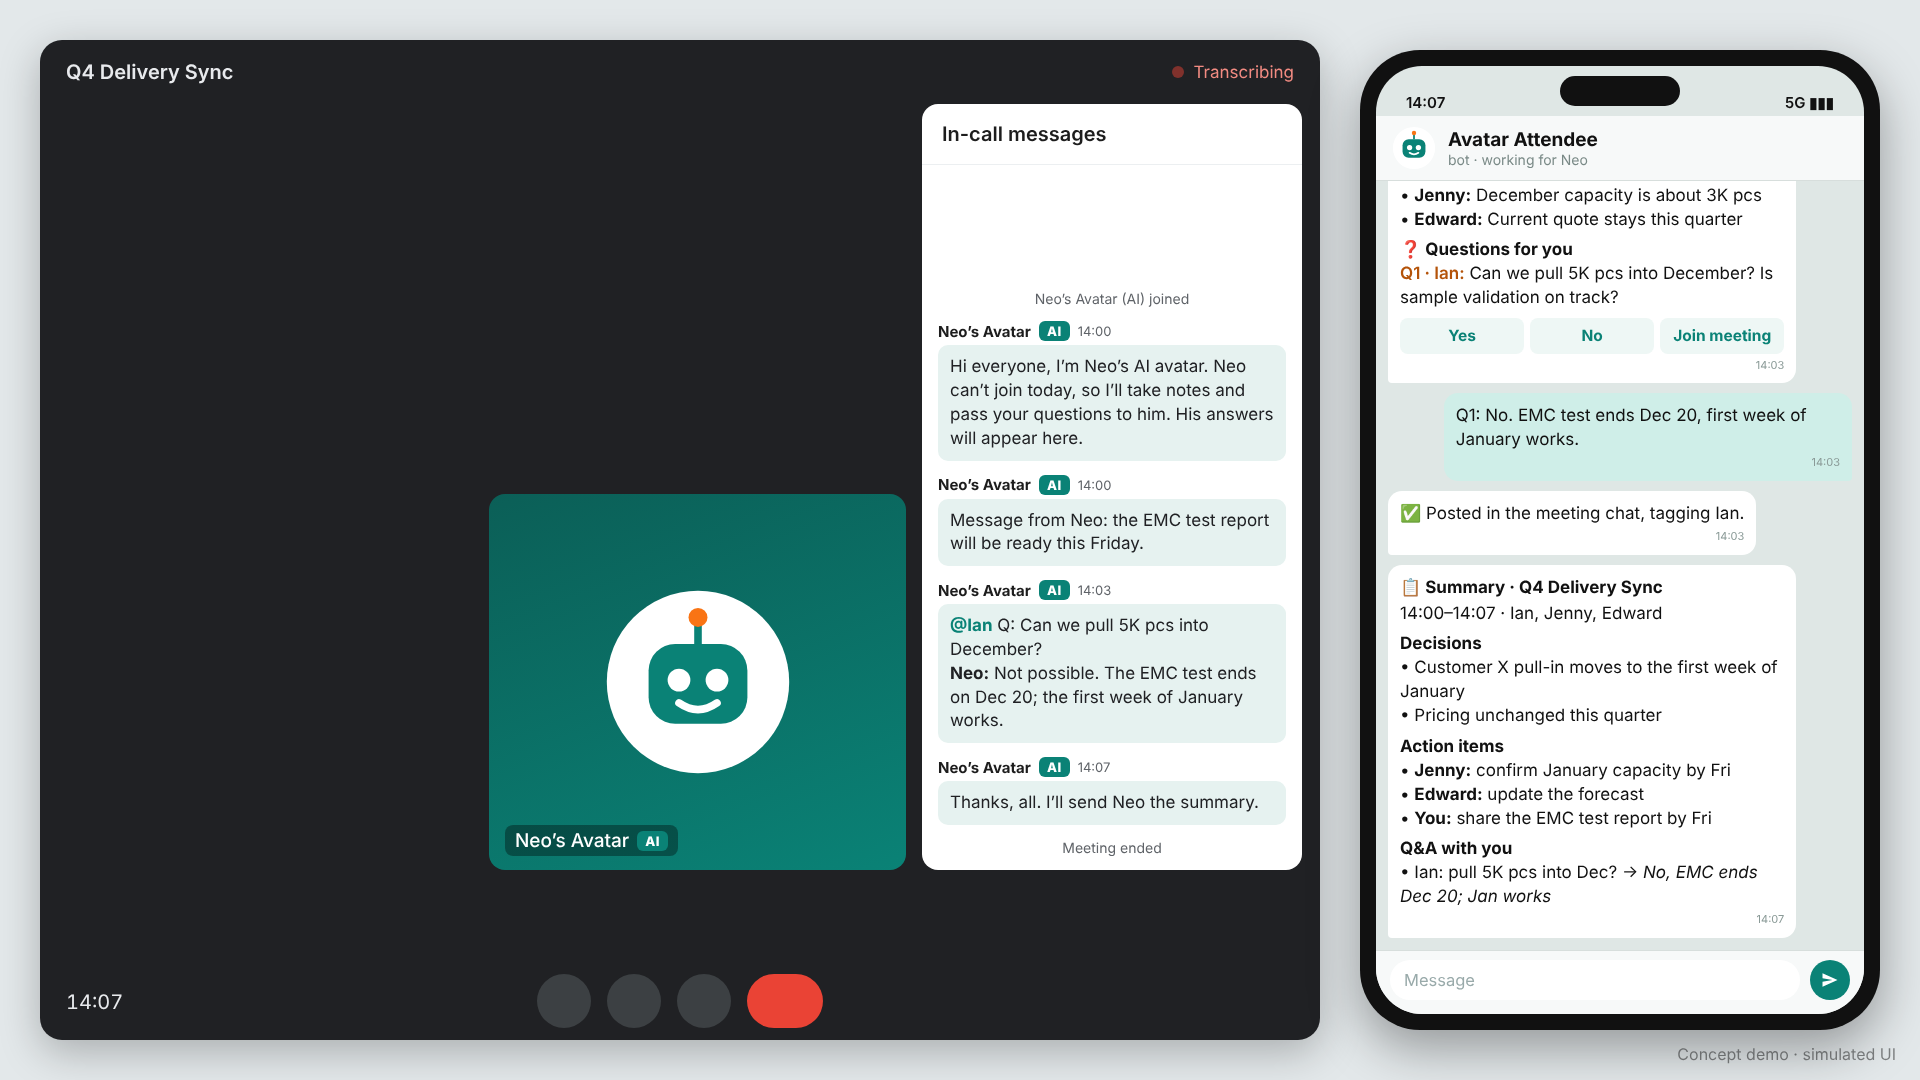
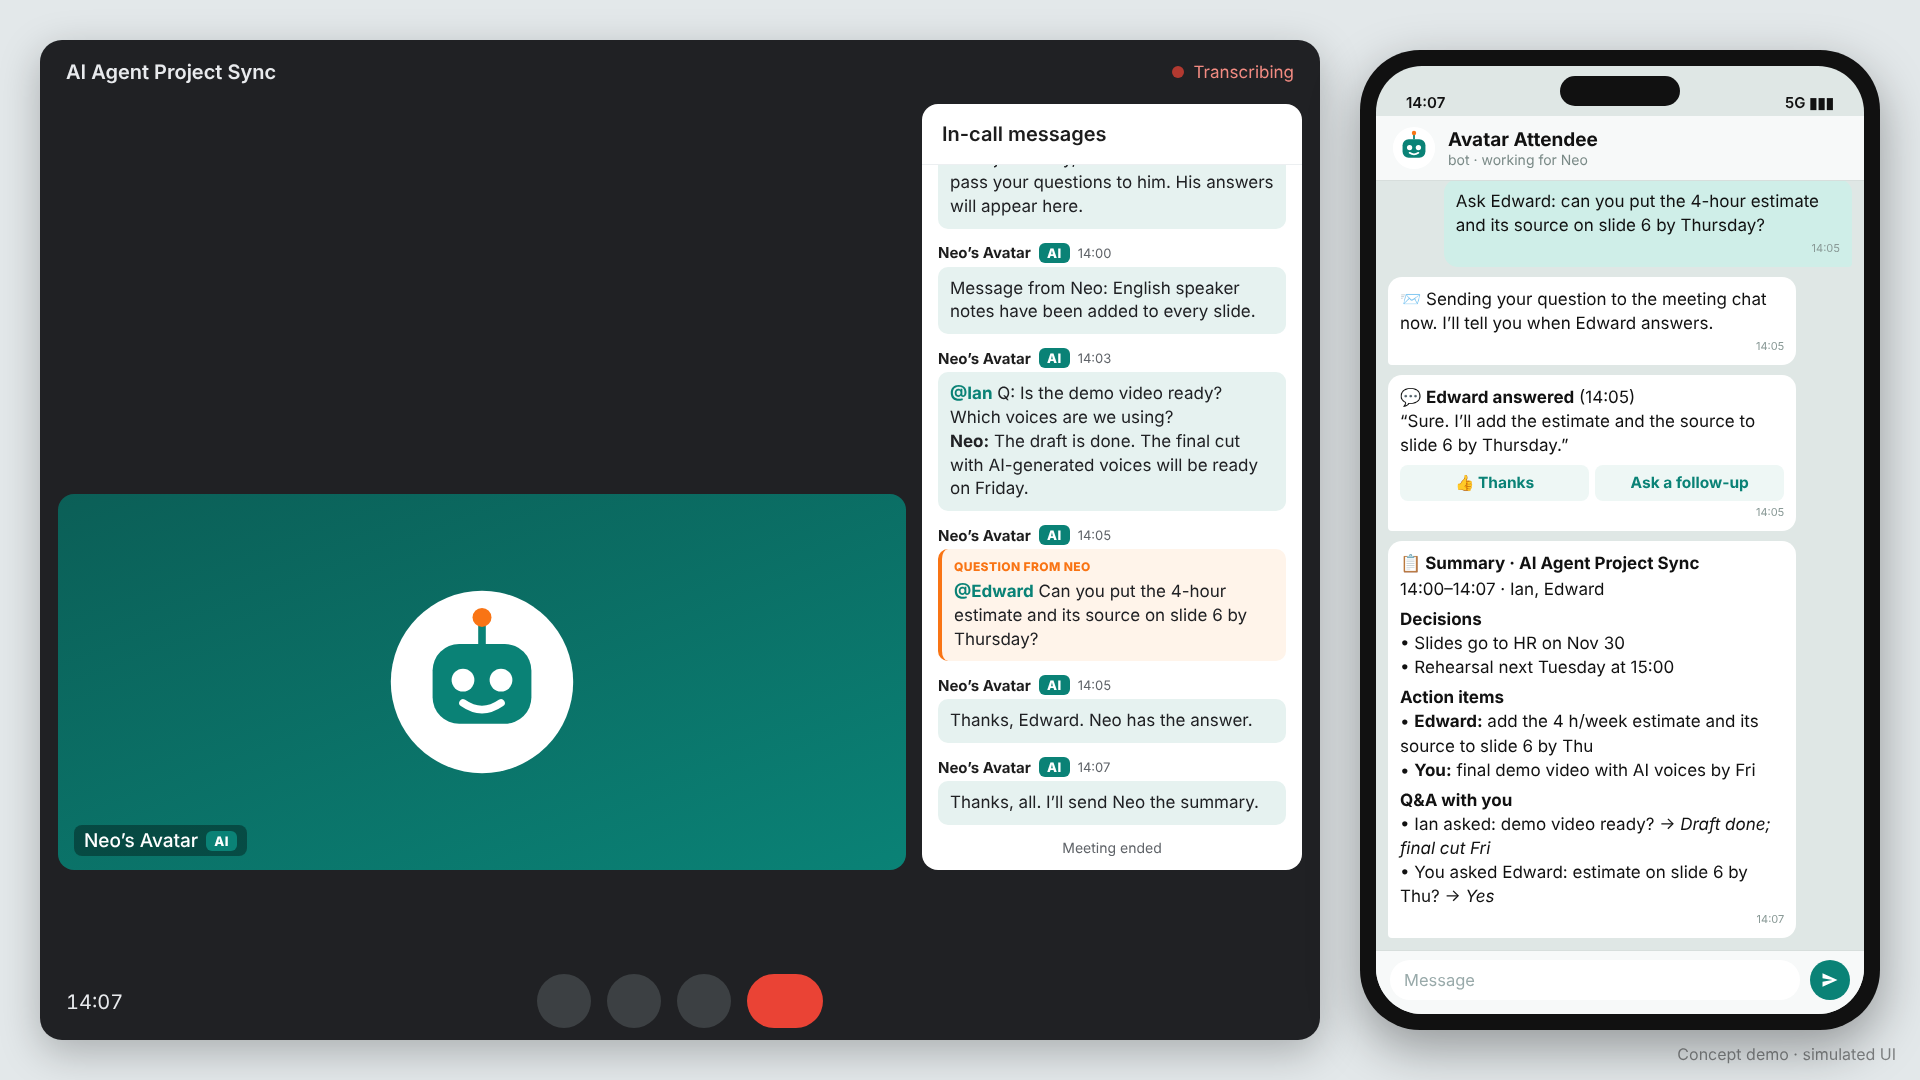
Rewrite demo around the AI agent project sync; 3 tiles; new voices
Jenny removed; Ian uses a female voice (edge en-US-AvaNeural / OpenAI nova),
Edward en-US-AndrewNeural. Avatar tile spans the bottom row with 2 people.
Browser placeholder voices picked by preferred name.

Claude-Session: https://claude.ai/code/session_01Bwcqt4A6kiwMYGxiP7SZda

diff --git a/content/script.js b/content/script.js
@@ -1,6 +1,7 @@
 // ============================================================
 // script.js — the whole demo, step by step (runs top to bottom)
 // Step types: see README.md → "Step reference"
+// Example meeting: Ian and Edward sync on the AI agent project; Neo can't attend.
 // ============================================================
 var O = (typeof CONFIG !== "undefined" ? CONFIG : require("./config.js").CONFIG).OWNER;
 
@@ -8,12 +9,12 @@ var SCRIPT = [
   // ---------- Scene 1: calendar ----------
   { type: "wait", ms: 1500 },
   { type: "cal_click" },
-  { type: "toast", text: "🤖 Avatar is joining “Q4 Delivery Sync”…", ms: 1800 },
+  { type: "toast", text: "🤖 Avatar is joining “AI Agent Project Sync”…", ms: 1800 },
   { type: "scene", to: "main" },
 
   // ---------- Scene 2: avatar joins ----------
   { type: "clock", t: "14:00" },
-  { type: "join", who: "Ian" }, { type: "join", who: "Jenny" }, { type: "join", who: "Edward" },
+  { type: "join", who: "Ian" }, { type: "join", who: "Edward" },
   { type: "wait", ms: 800 },
   { type: "join", who: "avatar" },
   { type: "chat_sys", text: "Neo’s Avatar (AI) joined" },
@@ -21,68 +22,62 @@ var SCRIPT = [
 
   // ---------- "Anything to say first?" ----------
   { type: "phone_typing", ms: 1100 },
-  { type: "phone", html: `👋 I’ve joined <b>Q4 Delivery Sync</b> (14:00–14:45) for you.\nAnything you’d like me to tell the group first?`, buttons: ["Nothing for now"] },
-  { type: "phone_reply", text: "Tell them the EMC test report will be ready this Friday." },
+  { type: "phone", html: `👋 I’ve joined <b>AI Agent Project Sync</b> (14:00–14:30) for you.\nAnything you’d like me to tell the group first?`, buttons: ["Nothing for now"] },
+  { type: "phone_reply", text: "Tell them I added English speaker notes to every slide." },
   { type: "phone", html: "✅ Posted in the meeting chat." },
-  { type: "chat", from: "avatar", text: `Message from ${O}: the EMC test report will be ready this Friday.` },
+  { type: "chat", from: "avatar", text: `Message from ${O}: English speaker notes have been added to every slide.` },
 
   // ---------- Meeting, part 1 ----------
-  { type: "speak", id: "01_ian",    who: "Ian",    text: "Thanks. Let’s start. Customer X wants to bring their order forward." },
-  { type: "speak", id: "02_jenny",  who: "Jenny",  text: "From OPS, December capacity for this part is about three thousand pieces." },
-  { type: "speak", id: "03_edward", who: "Edward", text: "On pricing, we keep the current quote for this quarter." },
-  { type: "speak", id: "04_ian",    who: "Ian",    text: "Neo, can we pull five thousand pieces into December? Is sample validation on track?" },
+  { type: "speak", id: "01_ian",    who: "Ian",    text: "Thanks, Neo. Let’s go through the AI agent project. The slides are due to HR on November thirtieth." },
+  { type: "speak", id: "02_edward", who: "Edward", text: "I’ve finished the business impact numbers. We estimate about four hours a week per person in meetings where a summary would be enough." },
+  { type: "speak", id: "03_ian",    who: "Ian",    text: "Great. Neo, is the demo video ready? And which voices are we using?" },
 
   // ---------- Digest #1 ----------
   { type: "skip", big: "⏩ Digest interval", small: "Every 3 minutes (configurable) · 14:03", clock: "14:03" },
   { type: "phone_typing", ms: 1300 },
   { type: "phone", html:
-`<h4>🕑 Digest · 14:00–14:03</h4><span class="sec">Key points</span>• <b>Ian:</b> Customer X wants to pull their order forward
-• <b>Jenny:</b> December capacity is about 3K pcs
-• <b>Edward:</b> Current quote stays this quarter
-<span class="sec">❓ Questions for you</span><span class="q">Q1 · Ian:</span> Can we pull 5K pcs into December? Is sample validation on track?`,
-    buttons: ["Yes", "No", "Join meeting"] },
-  { type: "phone_tap", label: "No" },
-  { type: "phone_reply", text: "Q1: No. EMC test ends Dec 20, first week of January works." },
+`<h4>🕑 Digest · 14:00–14:03</h4><span class="sec">Key points</span>• <b>Ian:</b> Slides are due to HR on Nov 30
+• <b>Edward:</b> Impact estimate is ~4 h/week per person in summary-only meetings
+<span class="sec">❓ Questions for you</span><span class="q">Q1 · Ian:</span> Is the demo video ready? Which voices are we using?`,
+    buttons: ["Yes", "Not yet", "Join meeting"] },
+  { type: "phone_tap", label: "Not yet" },
+  { type: "phone_reply", text: "Q1: Draft is done. Final cut with AI voices on Friday." },
   { type: "phone", html: "✅ Posted in the meeting chat, tagging Ian." },
-  { type: "chat", from: "avatar", text: `<span class="mention">@Ian</span> Q: Can we pull 5K pcs into December?<br><b>${O}:</b> Not possible. The EMC test ends on Dec 20; the first week of January works.` },
+  { type: "chat", from: "avatar", text: `<span class="mention">@Ian</span> Q: Is the demo video ready? Which voices are we using?<br><b>${O}:</b> The draft is done. The final cut with AI-generated voices will be ready on Friday.` },
 
   // ---------- Meeting, part 2 ----------
-  { type: "speak", id: "05_ian",    who: "Ian",    text: "Got it, thanks Neo. Jenny, can we reserve January capacity instead?" },
-  { type: "speak", id: "06_jenny",  who: "Jenny",  text: "Yes. I’ll confirm January capacity by Friday." },
+  { type: "speak", id: "04_ian",    who: "Ian",    text: "Perfect, thanks Neo. Then we can rehearse next Tuesday." },
 
   // ---------- Ask from the phone: Neo sends a question into the meeting ----------
   { type: "clock", t: "14:05" },
-  { type: "phone_reply", text: "Ask Jenny: can we ship 200 engineering samples next week so Customer X can start EVT?" },
+  { type: "phone_reply", text: "Ask Edward: can you put the 4-hour estimate and its source on slide 6 by Thursday?" },
   { type: "phone_typing", ms: 900 },
-  { type: "phone", html: "📨 Sending your question to the meeting chat now. I’ll tell you when Jenny answers." },
+  { type: "phone", html: "📨 Sending your question to the meeting chat now. I’ll tell you when Edward answers." },
   { type: "chat_typing", ms: 1200 },
-  { type: "chat", from: "avatar", variant: "ask", tag: "Question from Neo", text: `<span class="mention">@Jenny</span> Can we ship 200 engineering samples next week so Customer X can start EVT?`, ms: 1800 },
-  { type: "speak", id: "06b_jenny", who: "Jenny",  text: "Good question, Neo. Yes, two hundred samples can ship next Wednesday." },
+  { type: "chat", from: "avatar", variant: "ask", tag: "Question from Neo", text: `<span class="mention">@Edward</span> Can you put the 4-hour estimate and its source on slide 6 by Thursday?`, ms: 1800 },
+  { type: "speak", id: "05_edward", who: "Edward", text: "Sure, Neo. I’ll add the estimate and the source to slide six by Thursday." },
   { type: "phone_typing", ms: 1000 },
-  { type: "phone", html: "💬 <b>Jenny answered</b> (14:05)\n“Yes, 200 samples can ship next Wednesday.”", buttons: ["👍 Thanks", "Ask a follow-up"] },
+  { type: "phone", html: "💬 <b>Edward answered</b> (14:05)\n“Sure. I’ll add the estimate and the source to slide 6 by Thursday.”", buttons: ["👍 Thanks", "Ask a follow-up"] },
   { type: "phone_tap", label: "👍 Thanks" },
-  { type: "chat", from: "avatar", text: `Thanks, Jenny. ${O} has the answer.` },
-  { type: "speak", id: "07_edward", who: "Edward", text: "I’ll update the forecast once that’s confirmed." },
-  { type: "speak", id: "08_ian",    who: "Ian",    text: "Great. That’s all for today. Thanks, everyone." },
+  { type: "chat", from: "avatar", text: `Thanks, Edward. ${O} has the answer.` },
 
   // ---------- Meeting ends ----------
+  { type: "speak", id: "06_ian",    who: "Ian",    text: "Great. Rehearsal is next Tuesday at three. Thanks, everyone." },
   { type: "clock", t: "14:07" },
   { type: "chat", from: "avatar", text: `Thanks, all. I’ll send ${O} the summary.` },
-  { type: "leave", who: "Ian" }, { type: "leave", who: "Jenny" }, { type: "leave", who: "Edward" },
+  { type: "leave", who: "Ian" }, { type: "leave", who: "Edward" },
   { type: "chat_sys", text: "Meeting ended" },
 
   // ---------- Final summary ----------
   { type: "phone_typing", ms: 1500 },
   { type: "phone", html:
-`<h4>📋 Summary · Q4 Delivery Sync</h4>14:00–14:07 · Ian, Jenny, Edward
-<span class="sec">Decisions</span>• Customer X pull-in moves to the first week of January
-• Pricing unchanged this quarter
-<span class="sec">Action items</span>• <b>Jenny:</b> confirm January capacity by Fri
-• <b>Jenny:</b> ship 200 engineering samples next Wed
-• <b>Edward:</b> update the forecast
-• <b>You:</b> share the EMC test report by Fri
-<span class="sec">Q&amp;A with you</span>• Ian asked: pull 5K pcs into Dec? → <i>No, EMC ends Dec 20; Jan works</i>
-• You asked Jenny: 200 samples next week? → <i>Yes, ships next Wed</i>` },
+`<h4>📋 Summary · AI Agent Project Sync</h4>14:00–14:07 · Ian, Edward
+<span class="sec">Decisions</span>• Slides go to HR on Nov 30
+• Rehearsal next Tuesday at 15:00
+<span class="sec">Action items</span>• <b>Edward:</b> add the 4 h/week estimate and its source to slide 6 by Thu
+• <b>You:</b> final demo video with AI voices by Fri
+<span class="sec">Q&amp;A with you</span>• Ian asked: demo video ready? → <i>Draft done; final cut Fri</i>
+• You asked Edward: estimate on slide 6 by Thu? → <i>Yes</i>` },
   { type: "wait", ms: 3500 },
   { type: "endcard" },
 ];

diff --git a/index.html b/index.html
@@ -61,6 +61,7 @@
   @keyframes blink{50%{opacity:.3}}
   .meet-body{flex:1;display:flex;gap:16px;padding:0 18px 0 18px;min-height:0}
   .tiles{flex:1;display:grid;grid-template-columns:1fr 1fr;grid-template-rows:1fr 1fr;gap:14px;padding-bottom:6px}
+  .tiles.odd .tile.avatar{grid-column:span 2}
   .tile{background:var(--tile);border-radius:16px;position:relative;display:flex;align-items:center;justify-content:center;transition:box-shadow .2s,opacity .6s,transform .6s;opacity:0;transform:scale(.96)}
   .tile.in{opacity:1;transform:scale(1)}
   .tile.speaking{box-shadow:0 0 0 4px #8ab4f8}
@@ -272,6 +273,7 @@ function buildTiles(){
   Object.entries(PEOPLE).forEach(([n,p])=>{
     t.insertAdjacentHTML("beforeend",`<div class="tile" id="tile-${n}"><div class="bars"><span></span><span></span><span></span></div><div class="face" style="background:${p.color}">${n[0]}</div><div class="name">${n} · ${p.role}</div></div>`);
   });
+  t.classList.toggle("odd", Object.keys(PEOPLE).length % 2 === 0);  // 2 people + avatar: avatar spans the bottom row
   t.insertAdjacentHTML("beforeend",`<div class="tile avatar" id="tile-avatar"><div class="face">${AVATAR_SVG}</div><div class="name">${AVATAR_NAME} <span class="ai-chip">AI</span></div></div>`);
 }
 
@@ -320,7 +322,10 @@ function speakText(text, p){
     const fallback=setTimeout(res, Math.max(2500, text.length*75));
     try{
       const u=new SpeechSynthesisUtterance(text);
-      if(voices.length) u.voice=voices[(p.browserVoice||0) % voices.length];
+      if(voices.length){
+        const pref=(p.browserVoiceNames||[]).map(n=>voices.find(v=>v.name.toLowerCase().includes(n.toLowerCase()))).find(Boolean);
+        u.voice=pref||voices[(p.browserVoice||0) % voices.length];
+      }
       u.pitch=p.pitch||1; u.rate=p.rate||1;
       u.onend=()=>{clearTimeout(fallback);res();}; u.onerror=()=>{clearTimeout(fallback);res();};
       speechSynthesis.speak(u);

diff --git a/content/people.js b/content/people.js
@@ -1,17 +1,18 @@
 // ============================================================
-// people.js — meeting participants (one tile each)
+// people.js — meeting participants (one tile each, plus the Avatar)
 // ============================================================
 // key      = the name used in script.js ("who": "Ian")
 // role     = shown on the tile ("Ian · CSM")
 // color    = tile circle colour
-// browserVoice/pitch/rate = placeholder voice when there is no mp3
-// tts      = voices used by tools/generate_audio.py
+// tts      = voices used by tools/generate_audio.py (edge-tts / OpenAI)
+// browserVoiceNames = preferred built-in browser voices (placeholder when an mp3 is missing);
+//                     the first name found on this computer is used
 var PEOPLE = {
-  Ian:    { role: "CSM",     color: "#8e44ad", browserVoice: 0, pitch: 1.0,  rate: 1.0,
-            tts: { edge: "en-US-GuyNeural",         openai: "onyx" } },
-  Jenny:  { role: "OPS",     color: "#d35400", browserVoice: 1, pitch: 1.15, rate: 1.0,
-            tts: { edge: "en-US-JennyNeural",       openai: "nova" } },
-  Edward: { role: "Finance", color: "#2471a3", browserVoice: 2, pitch: 0.9,  rate: 1.0,
-            tts: { edge: "en-GB-RyanNeural",        openai: "echo" } },
+  Ian:    { role: "CSM",     color: "#8e44ad",
+            tts: { edge: "en-US-AvaNeural",   openai: "nova" },          // female voice
+            browserVoiceNames: ["Samantha", "Google US English", "Aria", "Ava", "Zira"], browserVoice: 0, pitch: 1.05, rate: 1.0 },
+  Edward: { role: "Finance", color: "#2471a3",
+            tts: { edge: "en-US-AndrewNeural", openai: "onyx" },         // male voice
+            browserVoiceNames: ["Daniel", "Google UK English Male", "Guy", "Andrew", "David"], browserVoice: 1, pitch: 0.95, rate: 1.0 },
 };
 if (typeof module !== "undefined") module.exports = { PEOPLE };

diff --git a/content/calendar.js b/content/calendar.js
@@ -14,7 +14,7 @@ var CALENDAR = {
   // conflict: red style + "Conflict" badge · send: shows the Send button (exactly one event)
   events: [
     { col: 1, start: 1.0, len: 1.0,  title: "Customer X Design Review", meta: "14:00–15:00 · Taipei office", conflict: true },
-    { col: 2, start: 1.0, len: 0.75, title: "Q4 Delivery Sync",         meta: "14:00–14:45 · Online meeting", conflict: true, send: true },
+    { col: 2, start: 1.0, len: 0.5,  title: "AI Agent Project Sync",    meta: "14:00–14:30 · Online meeting", conflict: true, send: true },
     { col: 3, start: 1.0, len: 1.0,  title: "PSOC Edge Training",       meta: "14:00–15:00 · Room 16F",      conflict: true },
     { col: 1, start: 3.0, len: 0.5,  title: "1:1 with manager",         meta: "16:00–16:30" },
     { col: 2, start: 0.0, len: 0.5,  title: "Lunch & learn",            meta: "13:00–13:30" },

diff --git a/content/config.js b/content/config.js
@@ -4,7 +4,7 @@
 var CONFIG = {
   OWNER: "Neo",                         // the person who can't attend
   AVATAR_NAME: "Neo’s Avatar",          // name shown on the avatar tile and in chat
-  meetingTitle: "Q4 Delivery Sync",     // top-left of the meeting window
+  meetingTitle: "AI Agent Project Sync",     // top-left of the meeting window
   startClock: "14:00",                  // clock at the start (changed later by {type:"clock"} steps)
 
   botName: "Avatar Attendee",           // phone chat header
